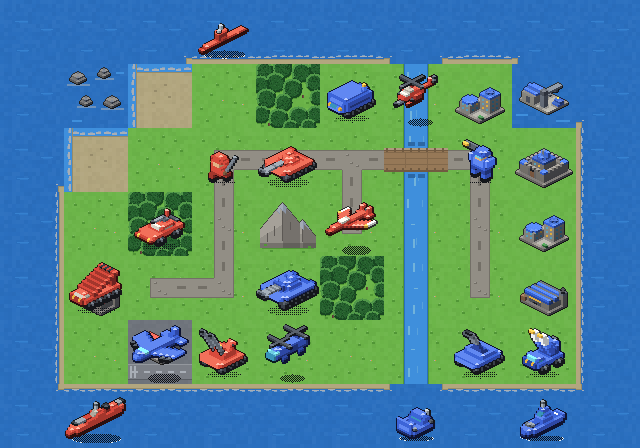
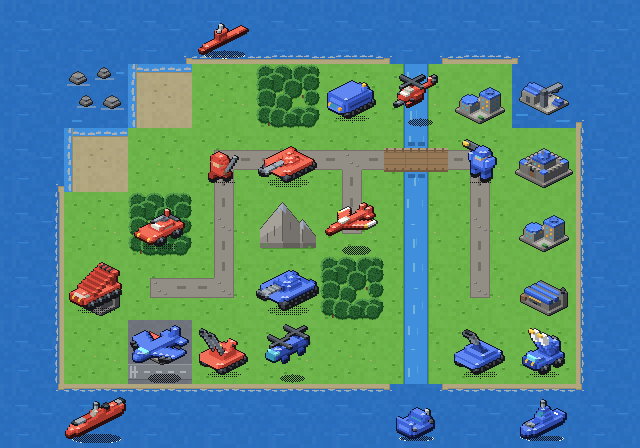
Emit the woods autotile under the terrain value ceiling
The woods sheet the game ships was baked before the value ceiling: its ground
plate still holds the pre-ceiling grass while the atlas plains came down to
GRASS, so every woods cell draws a bright rectangle at its own cell edge. The
generator did not emit the sheet at all — it lived on the unmerged woods-fringe
branch (3c0d92a), authored against the old palette.

That branch, rebased onto the ceiling and the indexed palette: woods() takes
the edges the wood does not continue across and pulls those crowns fully
inside the cell, tangent to the border, so the fringe scallops while a
continued edge keeps its authored overhang; woods_tile() is the 16-variant
sheet over it and mask 15 is the atlas tile exactly, which is what the game's
TerrainAutotiles keeps on the base atlas. The rebase resolved the two files
the ceiling had moved under it — terrain.py's palette block (the N/E/S/W
connection bits join the ceiling constants rather than the old hexes) and
autotile.py's import list.

The seam cannot exist by construction: both grass grounds are the one GRASS
tone perturbed by their own grain salt, now named (PLAINS_SALT, WOODS_SALT)
so the shared derivation is stated rather than implied. WoodsSeam is the test
— the two plates are one band, no woods pixel out-keys the plains ground, and
every tone above that band's floor is a plains ground tone, so canopy may only
ever be shade over the field. Reinstating the old plate green fails it on all
16 masks.
[…]

Changed region(s): [[0.1875, 0.4062, 0.3125, 0.5938], [0.5, 0.5625, 0.625, 0.7188], [0.375, 0.125, 0.5, 0.2812]]

diff --git a/tests/test_generated_output.py b/tests/test_generated_output.py
@@ -33,6 +33,8 @@ from spritegen.palette import (
 from spritegen.terrain import (
     BUILDING_KEY_CEILING,
     CELL,
+    GRASS,
+    PLAINS_SALT,
     ROAD,
     ROAD_DARK,
     TERRAIN_MEDIAN_CEILING,
@@ -40,6 +42,7 @@ from spritegen.terrain import (
     TIMBER,
     WATER,
     WATER_DARK,
+    WOODS_SALT,
 )
 from spritegen.units import ATLAS_ORDER, build_model
 from spritegen.voxel import render_indexed
@@ -142,6 +145,7 @@ class Determinism(unittest.TestCase):
             autotile.river_tile,
             autotile.coast_tile,
             autotile.shoal_tile,
+            autotile.woods_tile,
         ):
             with self.subTest(builder=builder.__name__):
                 self.assertEqual(
@@ -366,6 +370,81 @@ class AutotileMasks(unittest.TestCase):
             x = i * (CELL + 2) + 2
             cut = sheet.crop((x, 2, x + CELL, 2 + CELL))
             self.assertEqual(cut.tobytes(), deck.convert("RGB").tobytes())
+
+
+class WoodsSeam(unittest.TestCase):
+    """A wood's ground is the plains ground, tone for tone.
+
+    The game shipped a woods sheet baked before the terrain value ceiling: its
+    plate still held the pre-ceiling grass while the atlas plains had come down
+    to GRASS, so every woods cell drew a bright rectangle at its own cell edge.
+    Both plates are that one GRASS tone under the same grain, so the step
+    cannot exist — measured against `_ground` rather than the plains tile
+    because the tile's wildflower is brighter than the ground band and would
+    let exactly the tone that caused the seam back through.
+    """
+
+    OLD_PLATE_GREEN = (119, 198, 79)  # what the game's committed sheet holds
+
+    def _plate(self, salt: int) -> set[tuple[int, int, int]]:
+        return set(opaque_pixels(terrain._ground(GRASS, salt)))
+
+    def _band(self, salt: int) -> tuple[float, float]:
+        lums = [terrain.luminance(c) for c in self._plate(salt)]
+        return min(lums), max(lums)
+
+    def test_the_woods_plate_is_the_plains_plate(self):
+        self.assertLessEqual(self._plate(WOODS_SALT), self._plate(PLAINS_SALT))
+        self.assertEqual(self._band(WOODS_SALT), self._band(PLAINS_SALT))
+
+    def test_no_woods_pixel_out_keys_the_plains_ground(self):
+        lo, hi = self._band(PLAINS_SALT)
+        # the bound is only worth asserting if it refuses the tone that caused
+        # the seam in the first place
+        self.assertGreater(terrain.luminance(self.OLD_PLATE_GREEN), hi)
+        ground = self._plate(PLAINS_SALT)
+        for mask in range(16):
+            with self.subTest(mask=mask):
+                for c in set(opaque_pixels(autotile.woods_tile(mask))):
+                    lum = terrain.luminance(c)
+                    self.assertLessEqual(lum, hi)
+                    # every tone is either a plains ground tone or shade over
+                    # one: canopy, trunk and contact shadow sit below the band
+                    if lum >= lo:
+                        self.assertIn(c, ground)
+
+    def _edge_ground(self, tile, bit: int) -> int:
+        """Ground pixels along one border — how far the tree line scallops
+        back from it."""
+        px = tile.convert("RGB").load()
+        ground = self._plate(PLAINS_SALT)
+        line = {
+            N: [(x, 0) for x in range(CELL)],
+            S: [(x, CELL - 1) for x in range(CELL)],
+            W: [(0, y) for y in range(CELL)],
+            E: [(CELL - 1, y) for y in range(CELL)],
+        }[bit]
+        return sum(1 for x, y in line if px[x, y] in ground)
+
+    def test_the_tree_line_scallops_off_every_open_edge(self):
+        walled_in = autotile.woods_tile(15)
+        for mask in range(16):
+            for bit in (N, E, S, W):
+                if mask & bit:  # the wood continues: canopy keeps its overhang
+                    continue
+                with self.subTest(mask=mask, edge=bit):
+                    self.assertGreater(
+                        self._edge_ground(autotile.woods_tile(mask), bit),
+                        self._edge_ground(walled_in, bit),
+                    )
+
+    def test_mask_fifteen_is_the_atlas_tile(self):
+        # the game's TerrainAutotiles keeps a wood walled in by wood on the
+        # base atlas, so the sheet's 15 has to be that same tile
+        self.assertEqual(
+            autotile.woods_tile(15).convert("RGB").tobytes(),
+            terrain.woods().convert("RGB").tobytes(),
+        )
 
 
 class RowSeparation(unittest.TestCase):

diff --git a/spritegen/terrain.py b/spritegen/terrain.py
@@ -20,6 +20,10 @@ from .voxel import place_in_cell, render
 
 CELL = 64
 
+# Connection bits, shared with autotile.py: which neighbours a tile's feature
+# continues into.
+N, E, S, W = 1, 2, 4, 8
+
 # The terrain value ceiling (fix spec round 4, item 7). The rule was not
 # merely unimplemented, it was inverted: plains sat at median L174, road L183
 # and shoal L202 while unit pixels top out at L145-165 at the 95th percentile,
@@ -62,6 +66,12 @@ CANOPY = (36, 96, 44)
 CANOPY_DK = (24, 70, 33)
 CANOPY_LT = (82, 152, 74)
 TRUNK = (109, 76, 65)
+
+# Grain salts for the two GRASS grounds. They differ so a wood's clearings do
+# not repeat the field's tufts; the tone they perturb is the one GRASS above,
+# so a woods cell and the plains it borders cannot step in value.
+PLAINS_SALT = 2
+WOODS_SALT = 3
 
 
 def luminance(c: RGB) -> float:
@@ -130,7 +140,7 @@ def road() -> Image.Image:
 
 
 def plains() -> Image.Image:
-    t = _ground(GRASS, 2)
+    t = _ground(GRASS, PLAINS_SALT)
     # grass tufts: a dark check with a light blade, like the old speckles
     # but drawn as 3px clusters
     spots = (
@@ -180,15 +190,39 @@ _CROWNS = (
 )
 
 
-def woods() -> Image.Image:
+def _crowns_within(open_edges: int) -> tuple[tuple[int, int, int], ...]:
+    """The crown table with every disc pulled fully inside the cell on the
+    edges the wood does not continue across, so a crown is never sliced flat
+    by the tile border. A pulled crown stays tangent to that border, so the
+    fringe scallops between crowns instead of gapping away from it. Crowns
+    keep their authored overhang on a continued edge, which is what lets the
+    interior of a wood butt seamlessly."""
+    pulled = []
+    for cx, cy, r in _CROWNS:
+        if open_edges & W:
+            cx = max(cx, r)
+        if open_edges & E:
+            cx = min(cx, CELL - 1 - r)
+        if open_edges & N:
+            cy = max(cy, r)
+        if open_edges & S:
+            cy = min(cy, CELL - 1 - r)
+        pulled.append((cx, cy, r))
+    return tuple(pulled)
+
+
+def woods(open_edges: int = 0) -> Image.Image:
     """A filled canopy: crowns drawn back to front, each keeping its lit
     top-left rim, over grass that shows only in the clearings and at the
     fringe. The value drop against plains is the tile's read — cover, not
-    decoration — and trunks at the fringe say the cover is trees."""
-    t = _ground(GRASS, 3)
+    decoration — and trunks at the fringe say the cover is trees.
+
+    `open_edges` names the borders the wood ends at (see `_crowns_within`);
+    0 — every edge continued — is the atlas tile."""
+    t = _ground(GRASS, WOODS_SALT)
     px = t.load()
     covered = [[False] * CELL for _ in range(CELL)]
-    for cx, cy, r in sorted(_CROWNS, key=lambda c: c[1]):
+    for cx, cy, r in sorted(_crowns_within(open_edges), key=lambda c: c[1]):
         rim = (r - 2) * (r - 2)
         for yy in range(max(0, cy - r), min(CELL, cy + r + 1)):
             for xx in range(max(0, cx - r), min(CELL, cx + r + 1)):

diff --git a/spritegen/atlas.py b/spritegen/atlas.py
@@ -103,8 +103,9 @@ def preview(atlas: Image.Image, zoom: int = 2) -> Image.Image:
 
 # A small authored scene proving the sheet works as a map: terrain ids per
 # cell, then units placed on top with mixed factions. Roads, the river, the
-# bridge and every coastline resolve through the autotile variants, so the
-# preview shows the connected look the game gets if it adopts them.
+# bridge, every coastline and every wood's tree line resolve through the
+# autotile variants, so the preview shows the connected look the game gets if
+# it adopts them.
 _DEMO_MAP = [
     "sea    sea    sea    sea    sea    sea    sea    sea    sea    sea",
     "sea    reef   shoal  plains woods  plains river  city   port   sea",
@@ -181,6 +182,8 @@ def build_demo() -> Image.Image:
                 tile = autotile.river_tile(mask(x, y, river_joins), salt=x * 7 + y)
             elif tid == "shoal":
                 tile = autotile.shoal_tile(mask(x, y, _WATERY))
+            elif tid == "woods":
+                tile = autotile.woods_tile(mask(x, y, frozenset({"woods"})))
             elif tid == "bridge":
                 horiz = bool(mask(x, y, road_joins) & (autotile.E | autotile.W))
                 tile = autotile.bridge_tile(horiz)

diff --git a/spritegen/autotile.py b/spritegen/autotile.py
@@ -19,14 +19,18 @@ from PIL import Image
 from .palette import h01, lighten, mix
 from .terrain import (
     CELL,
+    E,
     GRASS_DARK,
+    N,
     ROAD,
     ROAD_DARK,
+    S,
     SAND,
     SAND_DARK,
     SNOW,
     TIMBER,
     TIMBER_DARK,
+    W,
     WATER,
     WATER_DARK,
     WATER_LIGHT,
@@ -35,9 +39,8 @@ from .terrain import (
     _rect,
     plains,
     sea,
+    woods,
 )
-
-N, E, S, W = 1, 2, 4, 8
 
 _RLO, _RHI = 22, 42  # road band bounds (20px wide)
 _WLO, _WHI = 20, 44  # river channel bounds (24px wide)
@@ -258,6 +261,13 @@ def shoal_tile(edges: int) -> Image.Image:
     for sx, sy in ((26, 26), (36, 20), (24, 38), (40, 32)):
         _rect(t, sx, sy, 3, 2, SAND_DARK)
     return t
+
+
+def woods_tile(mask: int) -> Image.Image:
+    """A wood whose canopy runs off each connected edge and scallops to a
+    tree line on the rest. Mask 15 — wood on all four sides — is the atlas
+    tile exactly, so only a wood's fringe leaves the base sheet."""
+    return woods(~mask & 15)
 
 
 def sheet(tiles: list[Image.Image], cols: int) -> Image.Image:

diff --git a/sprite_generator.py b/sprite_generator.py
@@ -144,7 +144,7 @@ def main() -> None:
                     args.out / "iso_buildings" / f"{bid}_{fac.team}.png",
                 )
 
-    print("building autotile sheets (roads, rivers, coast, shoals, bridges)")
+    print("building autotile sheets (roads, rivers, coast, shoals, woods, bridges)")
     from spritegen import autotile
 
     _write(
@@ -161,6 +161,10 @@ def main() -> None:
     _write(
         autotile.variant_sheet(autotile.shoal_tile),
         args.out / "autotiles" / "shoals.png",
+    )
+    _write(
+        autotile.variant_sheet(autotile.woods_tile),
+        args.out / "autotiles" / "woods.png",
     )
     _write(autotile.bridge_sheet(), args.out / "autotiles" / "bridges.png")
 

diff --git a/README.md b/README.md
@@ -95,17 +95,21 @@ python3 -m venv .venv
 | `iso_buildings/<id>_<team>.png` | 25 property-building cells for `assets/sprites/iso_buildings` |
 | `preview_units.png`, `preview_terrain.png` | 2x atlas contact sheets on checkerboard |
 | `preview_map.png` | an authored little battle map proving the sheet in context |
-| `autotiles/{roads,rivers,coast,shoals}.png` | 16-variant connection sheets (see below) |
+| `autotiles/{roads,rivers,coast,shoals,woods}.png` | 16-variant connection sheets (see below) |
 | `autotiles/bridges.png` | the two bridge deck orientations, E-W then N-S |
 
 The `autotiles/` sheets are the opt-in upgrade path beyond the fixed
 14-column terrain contract: roads and rivers as N/E/S/W connection sets (so
 they can turn and junction), both bridge orientations, coastline tiles for
-sea bordering land, and shoals surfed on whichever edges face water. Each
-connection sheet lays out masks 0-15 row-major (bit order N=1, E=2, S=4,
-W=8); `bridges.png` carries its two decks side by side. The demo
-map composes from these, which is why its roads connect and its island has a
-shoreline; the atlases themselves are unchanged drop-ins.
+sea bordering land, shoals surfed on whichever edges face water, and woods
+whose canopy runs off the edges the wood continues across and scallops to a
+tree line on the rest (so a stand of trees stops ending in a razor cut
+against the grass). Each connection sheet lays out masks 0-15 row-major (bit
+order N=1, E=2, S=4, W=8); `bridges.png` carries its two decks side by side.
+Mask 15 on the woods sheet is the atlas tile exactly, so only a wood's fringe
+leaves the base sheet. The demo map composes from these, which is why its
+roads connect and its island has a shoreline; the atlases themselves are
+unchanged drop-ins.
 
 Note the game's `make tiles` rebuilds its atlases from its own PixVoxel
 pipeline and would overwrite installed atlases; the per-cell exports exist so
@@ -144,10 +148,11 @@ that pipeline's paste step can be pointed at this art instead.
    authored under `terrain.TERRAIN_VALUE_CEILING` (and every building under
    `BUILDING_KEY_CEILING`) so the top of the ramp stays the units'.
 5. **`spritegen/autotile.py`** — the direction-aware road/river/bridge/
-   coast/shoal variants exported under `autotiles/`.
+   coast/shoal/woods variants exported under `autotiles/`.
 6. **`spritegen/atlas.py`** — assembles atlases, exports cells, renders the
    preview sheets and the demo map (which resolves roads, the river, the
-   bridge and every coastline through the autotile variants).
+   bridge, every coastline and every wood's tree line through the autotile
+   variants).
 
 Python 3.10+, no dependencies beyond Pillow. The old seed-driven generator
 (creatures/ships/items/robots/tanks) lives in git history before this
